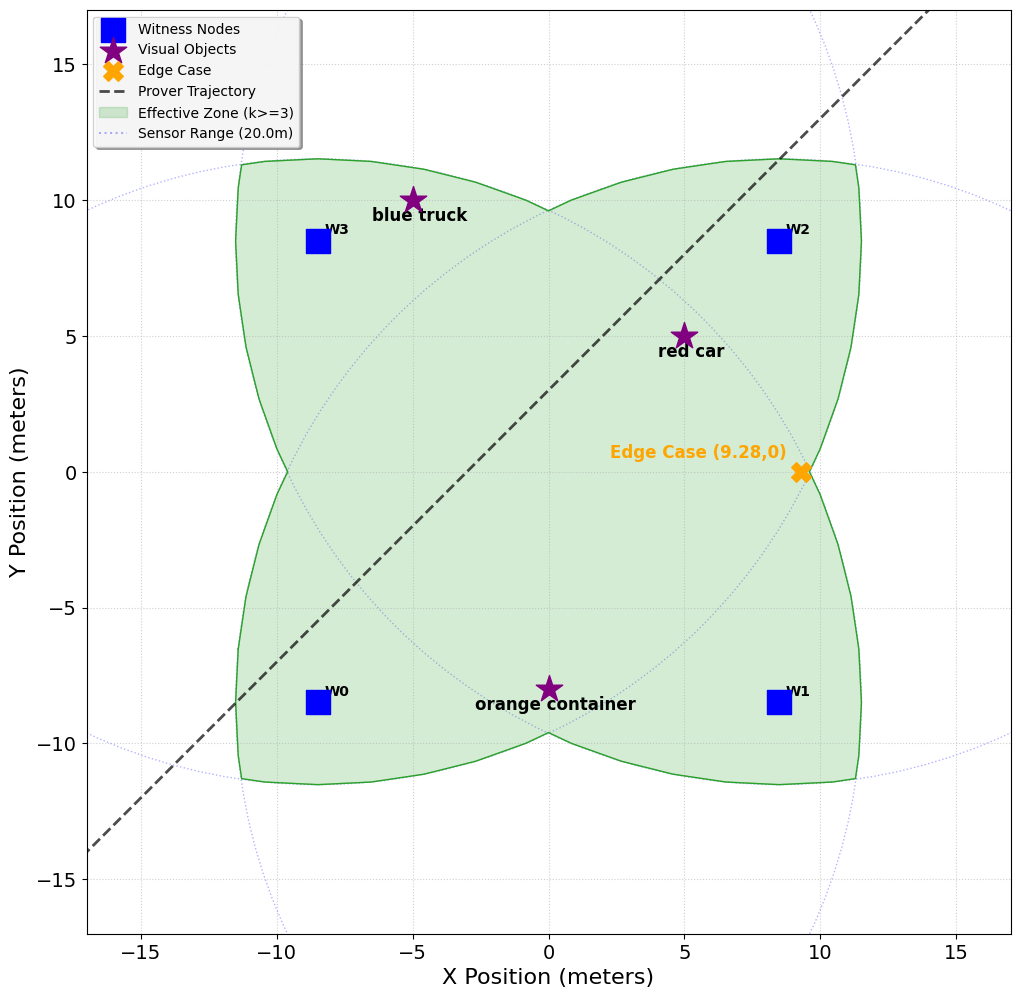
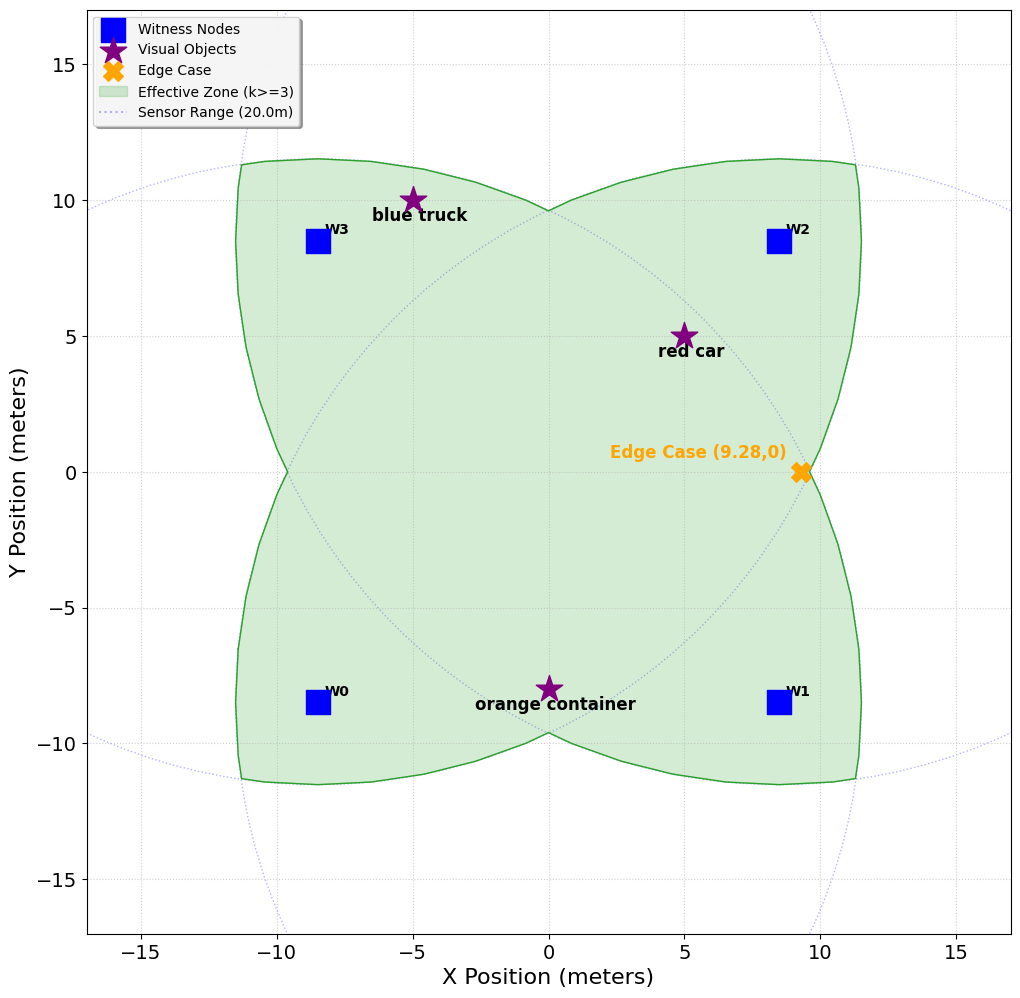
Remove prover trajectory from visualization

Changed region(s): [[0.0912, 0.0621, 0.3039, 0.1553]]

diff --git a/visualize_pol.py b/visualize_pol.py
@@ -151,33 +151,7 @@ def plot_results(sim, prover):
     ax.scatter([9.28], [0.0], c='orange', marker='X', s=200, zorder=6, label='Edge Case')
     ax.annotate("Edge Case (9.28,0)", (9.28, 0.0), xytext=(-10, 10), textcoords='offset points', 
                 ha='right', fontsize=12, fontweight='bold', color='orange')
-    # Plot Path/Attestations
-    valid_x, valid_y = [], []
-    invalid_x, invalid_y = [], []
-    
-    # Sort attestations by time to draw line
-    sorted_attestations = sorted(prover.attestations, key=lambda a: a.timestamp)
-    
-    # Draw continuous trajectory with color coding (Dense Geometric approach)
-    # We simulate the path geometrically to ensure a solid line
-    
-    # Path definition (Shifted +3 Y to match simulation and avoid clutter)
-    start_viz = np.array([-25.0, -22.0])
-    end_viz = np.array([30.0, 33.0])
-    steps = 200
-    
-    path_points = []
-    for i in range(steps + 1):
-        t = i / steps
-        pt = start_viz + t * (end_viz - start_viz)
-        path_points.append(pt)
-        
-    # Plot simple path (black dashed)
-    path_arr = np.array(path_points)
-    ax.plot(path_arr[:,0], path_arr[:,1], color='black', linestyle='--', linewidth=2.0, label='Prover Trajectory', alpha=0.7)
-                
-
-
+    # (Prover trajectory removed for cleaner visualization)
     # Add labels and styling
     ax.set_aspect('equal')
     ax.set_xlim(-25, 35)
